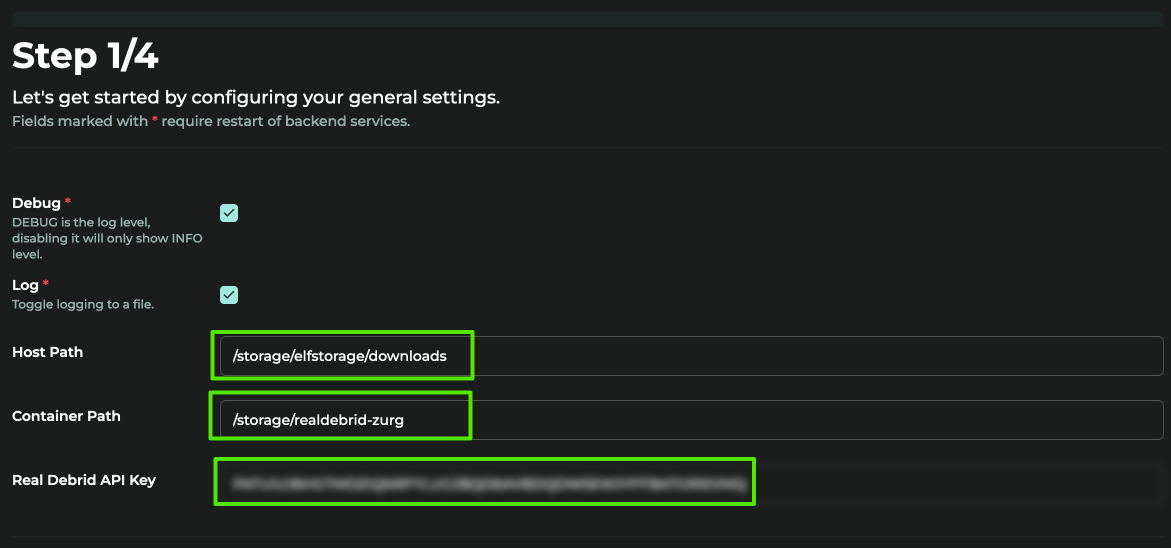
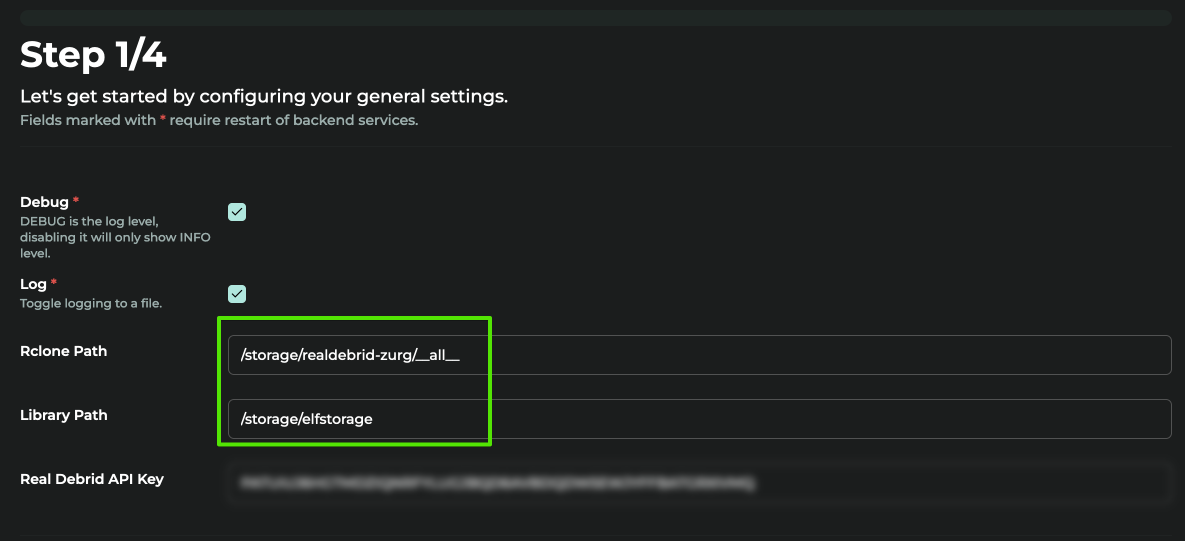
Upate iceberg docs for new changes

diff --git a/docs/app/iceberg.md b/docs/app/iceberg.md
@@ -25,8 +25,8 @@ Iceberg is a rewrite of [plex-debrid][plex-debrid], enabling Plex torrent stream
 
 When prompted, set 
 
-* **Host Path**: `/storage/elfstorage/downloads`
-* **Container Path**: `/storage/realdebrid-zurg`
+* **Rclone Path**: `/storage/elfstorage/downloads`
+* **Library Path**: `/storage/realdebrid-zurg`
 
 and paste in your [Real-Debrid][real-debrid] API key (*get it [here](https://real-debrid.com/apitoken)*)
 
@@ -40,14 +40,13 @@ Set your Plex URL to `http://plex:32400`, and authenticate
 
 #### Step 3 / 4
 
-When prompted for content services, use either `http://jellyseerr:5055` or `http://overseerr:5055`, depending which app you use. Navigate to Overseerr / Jellyseerr, retrieve your API key from **Settings** -> **General** --> **API Key**, and paste it in.
+When prompted for content services, select your Plex watchlist - if you're a [Overseer][overseerr] / [Jellyseer][jellyseerr] user, use either `http://jellyseerr:5055` or `http://overseerr:5055`, depending which app you use. Navigate to Overseerr / Jellyseerr, retrieve your API key from **Settings** -> **General** --> **API Key**, and paste it in.
 
 ![](/images/iceberg-setup-step-3.png)
 
 #### Step 4 / 4
 
 ![](/images/iceberg-setup-step-4.png)
-
 
 ##### Torrentio
 
@@ -56,6 +55,21 @@ To use ElfHosted's internal, unrestricted torrentio instance, set **Torrentio UR
 ##### Jackett
 
 To use your own ElfHosted [Jackett][jackett] instance, set the URL to `http://jackett:9117`, and paste in your API key (*retrieved from the Jackett UI*)
+
+#### Now what?
+
+You'll see a summary of your setup displayed. Click "Status" to look at your requests / queue / library:
+
+![](/images/iceberg-setup-step-5.png)
+
+### Where do I find my files?
+
+Iceberg will put symlinks in `/storage/elfstorage/movies` and `/stories/elfstorage/tv`
+
+### Where do I find logs?
+
+To see what Iceberg is up to, use [Filebrowser] to inspect the logs in /storage/config/iceberg/
+
 
 {% include 'app_footer.md' %}
 
